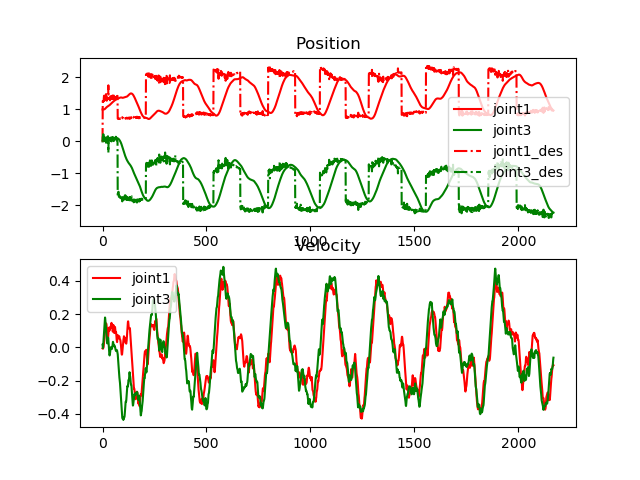
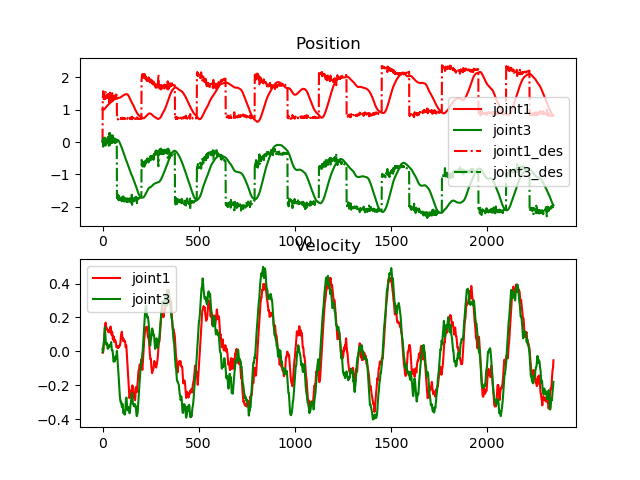
no jac

diff --git a/storm_kit/mpc/rollout/arm_base.py b/storm_kit/mpc/rollout/arm_base.py
@@ -152,31 +152,32 @@ class ArmBase(RolloutBase):
         
         ee_pos_batch, ee_rot_batch = state_dict['ee_pos_seq'], state_dict['ee_rot_seq']
         state_batch = state_dict['state_seq']
-        lin_jac_batch, ang_jac_batch = state_dict['lin_jac_seq'], state_dict['ang_jac_seq']
+        # lin_jac_batch, ang_jac_batch = state_dict['lin_jac_seq'], state_dict['ang_jac_seq']
         link_pos_batch, link_rot_batch = state_dict['link_pos_seq'], state_dict['link_rot_seq']
         prev_state = state_dict['prev_state_seq']
         prev_state_tstep = state_dict['prev_state_seq'][:,-1]
         
         retract_state = self.retract_state
+        # if self.exp_params['cost']['state_bound']['weight'] > 0:
+            # compute collision cost:
+        cost = self.bound_cost.forward(state_batch[:,:,:self.n_dofs * 3])
         
-        
-        
-        J_full = torch.cat((lin_jac_batch, ang_jac_batch), dim=-2)
+        # J_full = torch.cat((lin_jac_batch, ang_jac_batch), dim=-2)
         
 
         #null-space cost
         #if self.exp_params['cost']['null_space']['weight'] > 0:
-        null_disp_cost = self.null_cost.forward(state_batch[:,:,0:self.n_dofs] -
-                                                retract_state[:,0:self.n_dofs],
-                                                J_full,
-                                                proj_type='identity',
-                                                dist_type='squared_l2')
-        cost = null_disp_cost
+        # null_disp_cost = self.null_cost.forward(state_batch[:,:,0:self.n_dofs] -
+        #                                         retract_state[:,0:self.n_dofs],
+        #                                         J_full,
+        #                                         proj_type='identity',
+        #                                         dist_type='squared_l2')
+        # cost = null_disp_cost
 
-        if(no_coll == True and horizon_cost == False):
-            return cost
-        if(self.exp_params['cost']['manipulability']['weight'] > 0.0):
-            cost += self.manipulability_cost.forward(J_full)
+        # if(no_coll == True and horizon_cost == False):
+        #     return cost
+        # if(self.exp_params['cost']['manipulability']['weight'] > 0.0):
+        #     cost += self.manipulability_cost.forward(J_full)
         
         
         if(horizon_cost):
@@ -198,13 +199,8 @@ class ArmBase(RolloutBase):
                 cost += self.smooth_cost.forward(state_buffer, traj_dt)
 
 
-        if self.exp_params['cost']['state_bound']['weight'] > 0:
-            # compute collision cost:
-            cost += self.bound_cost.forward(state_batch[:,:,:self.n_dofs * 3])
-
-        if self.exp_params['cost']['ee_vel']['weight'] > 0:
-            cost += self.ee_vel_cost.forward(state_batch, lin_jac_batch)
-
+        # if self.exp_params['cost']['ee_vel']['weight'] > 0:
+        #     cost += self.ee_vel_cost.forward(state_batch, lin_jac_batch)
 
 
         if(not no_coll):
@@ -283,12 +279,15 @@ class ArmBase(RolloutBase):
         current_state = current_state.to(**self.tensor_args)
          
         
-        ee_pos_batch, ee_rot_batch, lin_jac_batch, ang_jac_batch = self.dynamics_model.robot_model. \
-            compute_fk_and_jacobian(current_state[:,:self.dynamics_model.n_dofs], current_state[:, self.dynamics_model.n_dofs: self.dynamics_model.n_dofs * 2], self.exp_params['model']['ee_link_name'])
+        # ee_pos_batch, ee_rot_batch, lin_jac_batch, ang_jac_batch = self.dynamics_model.robot_model. \
+        #     compute_fk_and_jacobian(current_state[:,:self.dynamics_model.n_dofs], current_state[:, self.dynamics_model.n_dofs: self.dynamics_model.n_dofs * 2], self.exp_params['model']['ee_link_name'])
+        ee_pos_batch, ee_rot_batch = self.dynamics_model.robot_model.compute_fk(current_state[:,:self.dynamics_model.n_dofs], 
+                                                                                             current_state[:, self.dynamics_model.n_dofs: self.dynamics_model.n_dofs * 2], 
+                                                                                             self.exp_params['model']['ee_link_name'])
 
         ee_quat = matrix_to_quaternion(ee_rot_batch)
         state = {'ee_pos_seq':ee_pos_batch, 'ee_rot_seq':ee_rot_batch,
-                 'lin_jac_seq': lin_jac_batch, 'ang_jac_seq': ang_jac_batch,
+                #  'lin_jac_seq': lin_jac_batch, 'ang_jac_seq': ang_jac_batch,
                  'ee_quat_seq':ee_quat}
         return state
     def current_cost(self, current_state, no_coll=True):
@@ -297,7 +296,10 @@ class ArmBase(RolloutBase):
         curr_batch_size = 1
         num_traj_points = 1 #self.dynamics_model.num_traj_points
         
-        ee_pos_batch, ee_rot_batch, lin_jac_batch, ang_jac_batch = self.dynamics_model.robot_model.compute_fk_and_jacobian(current_state[:,:self.dynamics_model.n_dofs], current_state[:, self.dynamics_model.n_dofs: self.dynamics_model.n_dofs * 2], self.exp_params['model']['ee_link_name'])
+        # ee_pos_batch, ee_rot_batch, lin_jac_batch, ang_jac_batch = self.dynamics_model.robot_model.compute_fk_and_jacobian(current_state[:,:self.dynamics_model.n_dofs], current_state[:, self.dynamics_model.n_dofs: self.dynamics_model.n_dofs * 2], self.exp_params['model']['ee_link_name'])
+        ee_pos_batch, ee_rot_batch = self.dynamics_model.robot_model.compute_fk(current_state[:,:self.dynamics_model.n_dofs], 
+                                                                                             current_state[:, self.dynamics_model.n_dofs: self.dynamics_model.n_dofs * 2], 
+                                                                                             self.exp_params['model']['ee_link_name'])
 
 
         link_pos_seq = self.link_pos_seq
@@ -314,11 +316,11 @@ class ArmBase(RolloutBase):
             current_state = current_state.unsqueeze(0)
             ee_pos_batch = ee_pos_batch.unsqueeze(0)
             ee_rot_batch = ee_rot_batch.unsqueeze(0)
-            lin_jac_batch = lin_jac_batch.unsqueeze(0)
-            ang_jac_batch = ang_jac_batch.unsqueeze(0)
+            # lin_jac_batch = lin_jac_batch.unsqueeze(0)
+            # ang_jac_batch = ang_jac_batch.unsqueeze(0)
 
         state_dict = {'ee_pos_seq':ee_pos_batch, 'ee_rot_seq':ee_rot_batch,
-                      'lin_jac_seq': lin_jac_batch, 'ang_jac_seq': ang_jac_batch,
+                    #   'lin_jac_seq': lin_jac_batch, 'ang_jac_seq': ang_jac_batch,
                       'state_seq': current_state,'link_pos_seq':link_pos_seq,
                       'link_rot_seq':link_rot_seq,
                       'prev_state_seq':current_state}

diff --git a/storm_kit/mpc/model/urdf_kinematic_model_baseline.py b/storm_kit/mpc/model/urdf_kinematic_model_baseline.py
@@ -213,8 +213,8 @@ class URDFKinematicModelBaseline(DynamicsModelBase):
         num_traj_points = self.num_traj_points
         link_pos_seq = self.link_pos_seq
         link_rot_seq = self.link_rot_seq
-        lin_jac_seq = self.lin_jac_seq
-        ang_jac_seq = self.ang_jac_seq
+        # lin_jac_seq = self.lin_jac_seq
+        # ang_jac_seq = self.ang_jac_seq
         for t in range(horizon):
             # state_seq[:, t] = curr_state.clone()
             # ee_pos_seq[:,t] = curr_ee_pos.clone()
@@ -224,8 +224,8 @@ class URDFKinematicModelBaseline(DynamicsModelBase):
             state_seq[:, t,-1] = self._traj_tstep[t]
             ee_pos_seq[:,t,:] = curr_ee_pos
             ee_rot_seq[:,t,:,:] = curr_ee_rot
-            lin_jac_seq[:,t,:,:] = lin_jac
-            ang_jac_seq[:,t,:,:] = ang_jac
+            # lin_jac_seq[:,t,:,:] = lin_jac
+            # ang_jac_seq[:,t,:,:] = ang_jac
             
             # get link poses:
             for ki,k in enumerate(self.link_names):
@@ -242,8 +242,8 @@ class URDFKinematicModelBaseline(DynamicsModelBase):
         state_dict = {'state_seq':state_seq.to(inp_device),
                       'ee_pos_seq': ee_pos_seq.to(inp_device),
                       'ee_rot_seq': ee_rot_seq.to(inp_device),
-                      'lin_jac_seq': lin_jac_seq.to(inp_device),
-                      'ang_jac_seq': ang_jac_seq.to(inp_device),
+                    #   'lin_jac_seq': lin_jac_seq.to(inp_device),
+                    #   'ang_jac_seq': ang_jac_seq.to(inp_device),
                       'link_pos_seq':link_pos_seq.to(inp_device),
                       'link_rot_seq':link_rot_seq.to(inp_device),
                       'prev_state_seq':self.prev_state_buffer.to(inp_device)}
@@ -315,7 +315,7 @@ class URDFKinematicModelBaseline(DynamicsModelBase):
         #print(start_state[:,self.n_dofs*2 : self.n_dofs*3])
 
         shape_tup = (curr_batch_size * num_traj_points, self.n_dofs)
-        ee_pos_seq, ee_rot_seq, lin_jac_seq, ang_jac_seq = self.robot_model.compute_fk_and_jacobian(state_seq[:,:,:self.n_dofs].view(shape_tup),
+        ee_pos_seq, ee_rot_seq = self.robot_model.compute_fk(state_seq[:,:,:self.n_dofs].view(shape_tup),
                                                                                                     state_seq[:,:,self.n_dofs:2 * self.n_dofs].view(shape_tup),
                                                                                                     link_name=self.ee_link_name)
 
@@ -328,14 +328,14 @@ class URDFKinematicModelBaseline(DynamicsModelBase):
         
         ee_pos_seq = ee_pos_seq.view((curr_batch_size, num_traj_points, 3))
         ee_rot_seq = ee_rot_seq.view((curr_batch_size, num_traj_points, 3, 3))
-        lin_jac_seq = lin_jac_seq.view((curr_batch_size, num_traj_points, 3, self.n_dofs))
-        ang_jac_seq = ang_jac_seq.view((curr_batch_size, num_traj_points, 3, self.n_dofs))
+        # lin_jac_seq = lin_jac_seq.view((curr_batch_size, num_traj_points, 3, self.n_dofs))
+        # ang_jac_seq = ang_jac_seq.view((curr_batch_size, num_traj_points, 3, self.n_dofs))
         
         state_dict = {'state_seq':state_seq.to(inp_device),
                       'ee_pos_seq': ee_pos_seq.to(inp_device),
                       'ee_rot_seq': ee_rot_seq.to(inp_device),
-                      'lin_jac_seq': lin_jac_seq.to(inp_device),
-                      'ang_jac_seq': ang_jac_seq.to(inp_device),
+                    #   'lin_jac_seq': lin_jac_seq.to(inp_device),
+                    #   'ang_jac_seq': ang_jac_seq.to(inp_device),
                       'link_pos_seq':link_pos_seq.to(inp_device),
                       'link_rot_seq':link_rot_seq.to(inp_device),
                       'prev_state_seq':self.prev_state_buffer.to(inp_device)}

diff --git a/storm_kit/mpc/model/urdf_kinematic_model.py b/storm_kit/mpc/model/urdf_kinematic_model.py
@@ -215,10 +215,13 @@ class URDFKinematicModel(DynamicsModelBase):
         #print(start_state[:,self.n_dofs*2 : self.n_dofs*3])
 
         shape_tup = (curr_batch_size * num_traj_points, self.n_dofs)
-        with profiler.record_function("fk + jacobian"):
-            ee_pos_seq, ee_rot_seq, lin_jac_seq, ang_jac_seq = self.robot_model.compute_fk_and_jacobian(state_seq[:,:,:self.n_dofs].view(shape_tup),
-                                                                                                    state_seq[:,:,self.n_dofs:2 * self.n_dofs].view(shape_tup),
-                                                                                                    link_name=self.ee_link_name)
+        # with profiler.record_function("fk + jacobian"):
+        #     ee_pos_seq, ee_rot_seq, lin_jac_seq, ang_jac_seq = self.robot_model.compute_fk_and_jacobian(state_seq[:,:,:self.n_dofs].view(shape_tup),
+        #                                                                                             state_seq[:,:,self.n_dofs:2 * self.n_dofs].view(shape_tup),
+        #                                                                                             link_name=self.ee_link_name)
+        ee_pos_seq, ee_rot_seq = self.robot_model.compute_fk(state_seq[:,:,:self.n_dofs].view(shape_tup),
+                                                             state_seq[:,:,self.n_dofs:2 * self.n_dofs].view(shape_tup),
+                                                             link_name=self.ee_link_name)
 
         # get link poses:
         for ki,k in enumerate(self.link_names):
@@ -229,14 +232,14 @@ class URDFKinematicModel(DynamicsModelBase):
         
         ee_pos_seq = ee_pos_seq.view((curr_batch_size, num_traj_points, 3))
         ee_rot_seq = ee_rot_seq.view((curr_batch_size, num_traj_points, 3, 3))
-        lin_jac_seq = lin_jac_seq.view((curr_batch_size, num_traj_points, 3, self.n_dofs))
-        ang_jac_seq = ang_jac_seq.view((curr_batch_size, num_traj_points, 3, self.n_dofs))
+        # lin_jac_seq = lin_jac_seq.view((curr_batch_size, num_traj_points, 3, self.n_dofs))
+        # ang_jac_seq = ang_jac_seq.view((curr_batch_size, num_traj_points, 3, self.n_dofs))
 
         state_dict = {'state_seq':state_seq.to(inp_device),
                       'ee_pos_seq': ee_pos_seq.to(inp_device),
                       'ee_rot_seq': ee_rot_seq.to(inp_device),
-                      'lin_jac_seq': lin_jac_seq.to(inp_device),
-                      'ang_jac_seq': ang_jac_seq.to(inp_device),
+                    #   'lin_jac_seq': lin_jac_seq.to(inp_device),
+                    #   'ang_jac_seq': ang_jac_seq.to(inp_device),
                       'link_pos_seq':link_pos_seq.to(inp_device),
                       'link_rot_seq':link_rot_seq.to(inp_device),
                       'prev_state_seq':self.prev_state_buffer.to(inp_device)}

diff --git a/examples/multimodal_franka/FrankaMoveSDF.py b/examples/multimodal_franka/FrankaMoveSDF.py
@@ -78,11 +78,11 @@ class MPCRobotController(FrankaEnvBase):
                 opt_step_count += 1
                 self.gym_instance.step()
                 self.gym_instance.clear_lines()
-                # generate pointcloud
+                # generate pointcloud 6ms
                 self.robot_sim.updateCamImage()
                 obs.update(self.robot_sim.ImageToPointCloud()) #耗时大！
                 envpc_filter._update_state(obs) 
-                # compute pointcloud to sdf_map
+                # compute pointcloud to sdf_map 4.5ms
                 # mpc_control.controller.rollout_fn.primitive_collision_cost.robot_world_coll.world_coll._compute_dynamic_sdfgrid(scene_pc)
                 # self.collision_grid = self.mpc_control.controller.rollout_fn.primitive_collision_cost.robot_world_coll.world_coll. \
                 #                      _compute_dynamic_voxeltosdf(envpc_filter.cur_scene_pc, visual = True)
@@ -106,7 +106,7 @@ class MPCRobotController(FrankaEnvBase):
                 self.curr_state_tensor = torch.as_tensor(np.hstack((q_des,qd_des,qdd_des)), **self.tensor_args).unsqueeze(0) # "1 x 3*n_dof"
                 # trans ee_pose in robot_coordinate to world coordinate
                 self.updateGymVisual_GymGoalUpdate()
-                self.updateRosMsg()
+                # self.updateRosMsg()
                 # Command_Robot_State include keyboard control : SPACE For Pause | ESCAPE For Exit 
                 successed = self.robot_sim.command_robot_state(q_des, qd_des, self.env_ptr, self.robot_ptr)
                 if not successed : break 

diff --git a/storm_kit/differentiable_robot_model/differentiable_robot_model.py b/storm_kit/differentiable_robot_model/differentiable_robot_model.py
@@ -534,7 +534,30 @@ class DifferentiableRobotModel(torch.nn.Module):
 
         return lin_jac.to(inp_device), ang_jac.to(inp_device)
 
+    def compute_fk(
+                self, q: torch.Tensor, qd:torch.Tensor, link_name: str
+        ) -> Tuple[torch.Tensor, torch.Tensor]:
+        r"""
 
+        Args:
+            link_name: name of link name for the jacobian
+            q: joint angles [batch_size x n_dofs]
+            qd: joint velocities [batch_size x n_dofs]
+
+        Returns: ee_pos, ee_rot and linear and angular jacobian
+
+        """
+        # st=time.time()
+        inp_device = q.device
+        q = q.to(**self.tensor_args)
+        qd = qd.to(**self.tensor_args)
+
+        # print("8", time.time()-st)
+        # st = time.time()
+        with profiler.record_function("robot_model/fk"):
+            ee_pos, ee_rot = self.compute_forward_kinematics(q, qd, link_name)
+        return ee_pos.to(inp_device), ee_rot.to(inp_device)
+    
     def compute_fk_and_jacobian(
                 self, q: torch.Tensor, qd:torch.Tensor, link_name: str
         ) -> Tuple[torch.Tensor, torch.Tensor]:

diff --git a/examples/multimodal_franka/FrankaJnc.py b/examples/multimodal_franka/FrankaJnc.py
@@ -108,7 +108,7 @@ class MPCRobotController(FrankaEnvBase):
                 print('Closing')
         print("whole_time is ",time.time() - last, "opt_step_count :",opt_step_count)
 
-        self.mpc_control.close()
+        # self.mpc_control.close()
         self.coll_robot_pub.unregister() 
         self.pub_env_pc.unregister()
         self.pub_robot_link_pc.unregister()

diff --git a/storm_kit/mpc/cost/primitive_collision_cost.py b/storm_kit/mpc/cost/primitive_collision_cost.py
@@ -61,7 +61,7 @@ class PrimitiveCollisionCost(nn.Module):
 
 
 
-    def optimal_forward(self, link_pos_seq, link_rot_seq):
+    def optimal_forward(self, link_pos_seq, link_rot_seq): # 6.5ms
 
         
         inp_device = link_pos_seq.device
